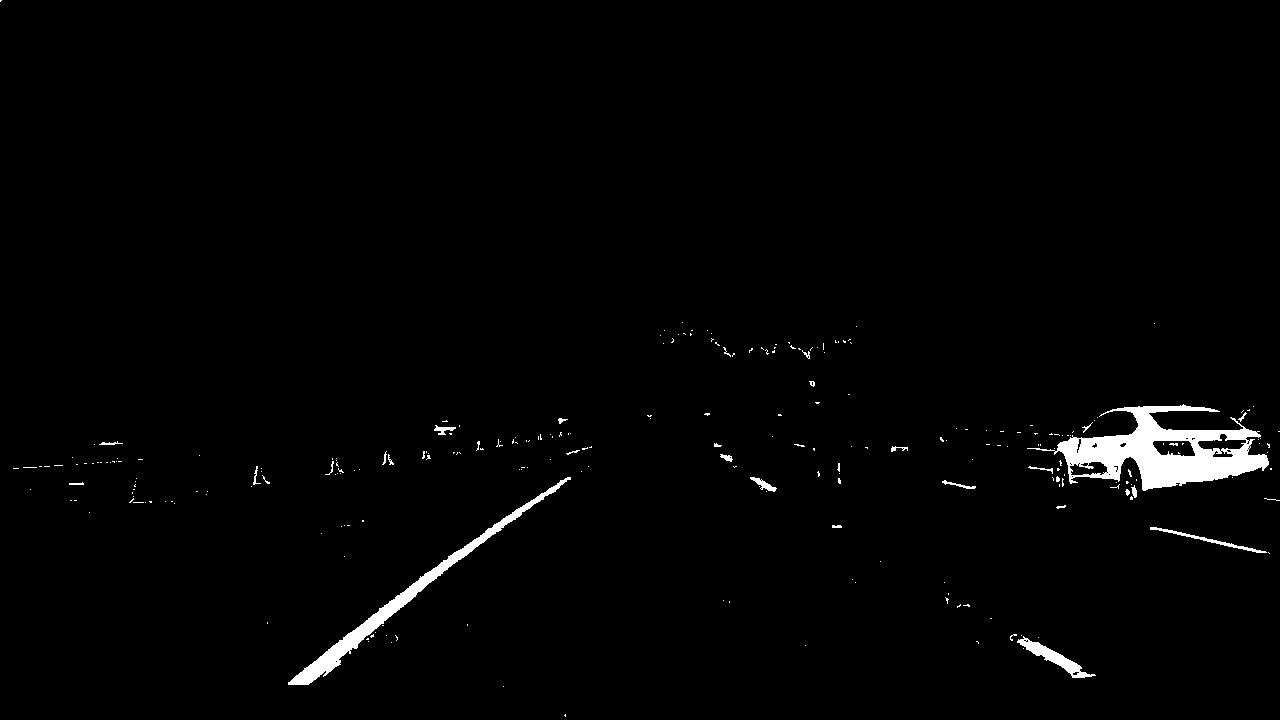
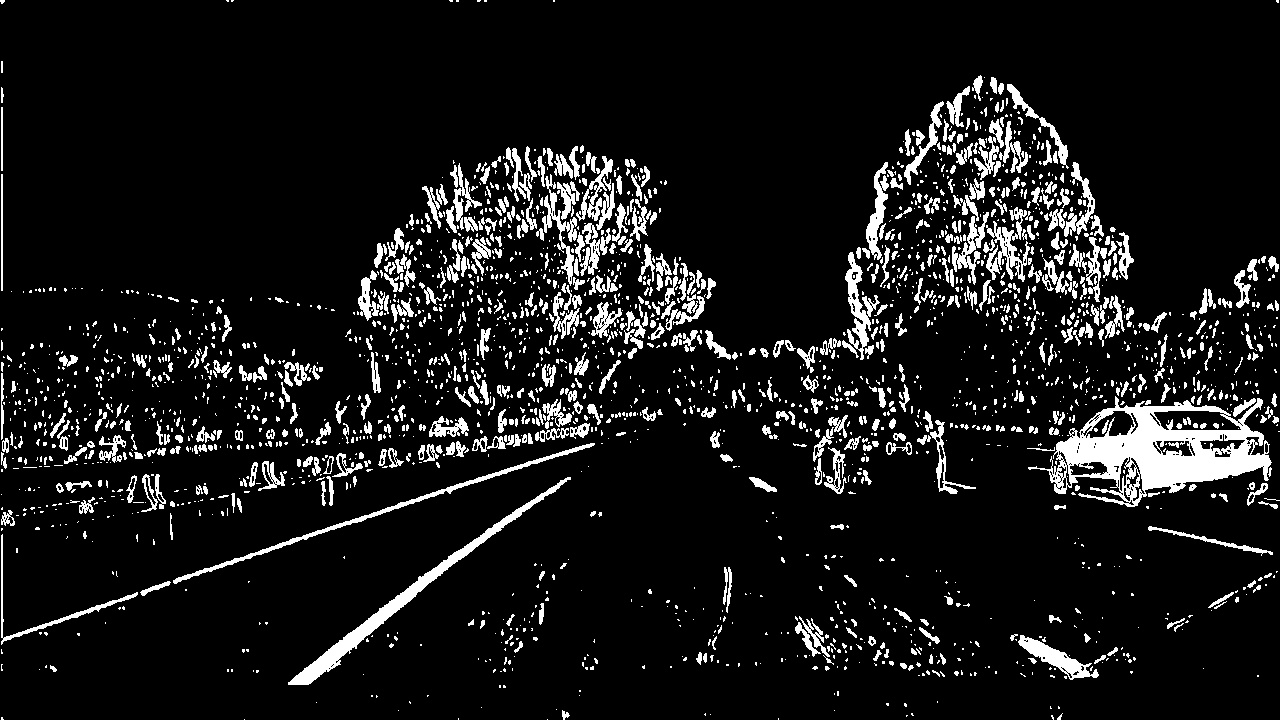
thresh

diff --git a/src/color_gradient_thrsh.py b/src/color_gradient_thrsh.py
@@ -25,14 +25,14 @@ def abs_sobel_thresh(img, orient='x', sobel_kernel=3, thresh=(0, 255)):
     # 5) Create a mask of 1's where the scaled gradient magnitude
     # is > thresh_min and < thresh_max
     binary = np.zeros_like(scaled_sobel)
-    binary[(scaled_sobel > thresh[0]) & (scaled_sobel < thresh[1])] = 1
+    binary[(scaled_sobel > thresh[0]) & (scaled_sobel <= thresh[1])] = 1
 
     # 6) Return this mask as your binary_output image
    # binary_output = np.copy(img) # Remove this line
     return binary
 
 
-def mag_thresh(img, sobel_kernel=3, mag_thresh=(0, 255)):
+def mag_thresh(img, sobel_kernel=7, mag_thresh=(30, 255)):
 
     # Apply the following steps to img
     # 1) Convert to grayscale
@@ -56,7 +56,7 @@ def mag_thresh(img, sobel_kernel=3, mag_thresh=(0, 255)):
     return binary
 
 
-def dir_threshold(img, sobel_kernel=3, thresh=(0, np.pi/2)):
+def dir_threshold(img, sobel_kernel=7, thresh=(np.pi/2, np.pi/2)):
 
     # Apply the following steps to img
     # 1) Convert to grayscale
@@ -80,7 +80,7 @@ def dir_threshold(img, sobel_kernel=3, thresh=(0, np.pi/2)):
     return binary
 
 
-def pipeline(img, s_thresh=(170, 255), sx_thresh=(20, 100), r_thresh=(200, 255), g_thresh=(180, 255), l_thresh=(220, 255), ksize=5):
+def pipeline(img, s_thresh=(170, 255), sx_thresh=(20, 100), r_thresh=(200, 255), g_thresh=(180, 255), l_thresh=(220, 255), ksize=9):
     img = np.copy(img)
     # Convert to HLS color space
     hls = cv2.cvtColor(img, cv2.COLOR_RGB2HLS)
@@ -96,8 +96,10 @@ def pipeline(img, s_thresh=(170, 255), sx_thresh=(20, 100), r_thresh=(200, 255),
     light_channel = lab[:,:,0]
     # Sobel x
     sxbinary = abs_sobel_thresh(
-        img, orient='x', sobel_kernel=15, thresh=sx_thresh)
+        img, orient='x', sobel_kernel=ksize, thresh=sx_thresh)
 
+    # direction = np.array(dir_threshold(img), dtype=bool)
+    mag = np.array( mag_thresh(img), dtype=bool)
     combined = np.zeros_like(s_channel)
 
     red_thresh = (r_channel >= r_thresh[0]) & (r_channel <= r_thresh[1])
@@ -105,7 +107,18 @@ def pipeline(img, s_thresh=(170, 255), sx_thresh=(20, 100), r_thresh=(200, 255),
     gray_thresh = (gray >= g_thresh[0]) & (gray <= g_thresh[1])
     light_thres = (light_channel >= l_thresh[0]) & (light_channel <= l_thresh[1])
 
+
+    # light_thres2 = (light_channellight_channel >= 0) & (light_channel <= l_thresh[1])
+
+    sat_thresh2 = (s_channel >= 0) & (s_channel <= s_thresh[1])
+
+    # combined[  ((light_thres | sxbinary==1 ) | (sat_thresh & gray_thresh)) & (light_thres2) ] = 1
+
+    combined[  ((light_thres | sxbinary == 1) | (sat_thresh & red_thresh))] = 1
+
+    # this will result in less noise, but less data
     combined[  ((light_thres | sxbinary==1) | (sat_thresh & gray_thresh)) & (red_thresh)  ] = 1
+    # combined[  ((light_thres | sxbinary == 1)) ] = 1
 
     # combined[((r_channel >= r_thresh[0]) & (r_channel <= r_thresh[1])) | ((s_channel >= s_thresh[0]) & (
     #     s_channel <= s_thresh[1])) & ()] = 1
@@ -128,36 +141,36 @@ for imgName in images:
     plainName = imgName.split("/")[2]
     cv2.imwrite('../output_images/threshold/'+plainName, thresh)
 
-# image = mpimg.imread('../test_images/test1.jpg')
-# result = pipeline(image)
-# cv2.imshow('pipelne', cv2.cvtColor(result, cv2.COLOR_RGB2BGR))
-# cv2.waitKey(0)
+image = mpimg.imread('../test_images/test1.jpg')
+result = pipeline(image)
+cv2.imshow('pipelne', cv2.cvtColor(result, cv2.COLOR_RGB2BGR))
+cv2.waitKey(0)
 
-# image = mpimg.imread('../test_images/test2.jpg')
-# result = pipeline(image)
-# cv2.imshow('pipelne', cv2.cvtColor(result, cv2.COLOR_RGB2BGR))
-# cv2.waitKey(0)
+image = mpimg.imread('../test_images/test2.jpg')
+result = pipeline(image)
+cv2.imshow('pipelne', cv2.cvtColor(result, cv2.COLOR_RGB2BGR))
+cv2.waitKey(0)
 
 
-# image = mpimg.imread('../test_images/test3.jpg')
-# result = pipeline(image)
-# cv2.imshow('pipelne', cv2.cvtColor(result, cv2.COLOR_RGB2BGR))
-# cv2.waitKey(0)
+image = mpimg.imread('../test_images/test3.jpg')
+result = pipeline(image)
+cv2.imshow('pipelne', cv2.cvtColor(result, cv2.COLOR_RGB2BGR))
+cv2.waitKey(0)
 
-# image = mpimg.imread('../test_images/test4.jpg')
-# result = pipeline(image)
-# cv2.imshow('pipelne', cv2.cvtColor(result, cv2.COLOR_RGB2BGR))
-# cv2.waitKey(0)
+image = mpimg.imread('../test_images/test4.jpg')
+result = pipeline(image)
+cv2.imshow('pipelne', cv2.cvtColor(result, cv2.COLOR_RGB2BGR))
+cv2.waitKey(0)
 
-# image = mpimg.imread('../test_images/test5.jpg')
-# result = pipeline(image)
-# cv2.imshow('pipelne', cv2.cvtColor(result, cv2.COLOR_RGB2BGR))
-# cv2.waitKey(0)
+image = mpimg.imread('../test_images/test5.jpg')
+result = pipeline(image)
+cv2.imshow('pipelne', cv2.cvtColor(result, cv2.COLOR_RGB2BGR))
+cv2.waitKey(0)
 
-# image = mpimg.imread('../test_images/test6.jpg')
-# result = pipeline(image)
-# cv2.imshow('pipelne', cv2.cvtColor(result, cv2.COLOR_RGB2BGR))
-# cv2.waitKey(0)
+image = mpimg.imread('../test_images/test6.jpg')
+result = pipeline(image)
+cv2.imshow('pipelne', cv2.cvtColor(result, cv2.COLOR_RGB2BGR))
+cv2.waitKey(0)
 
 
 # cv2.imshow(result)
